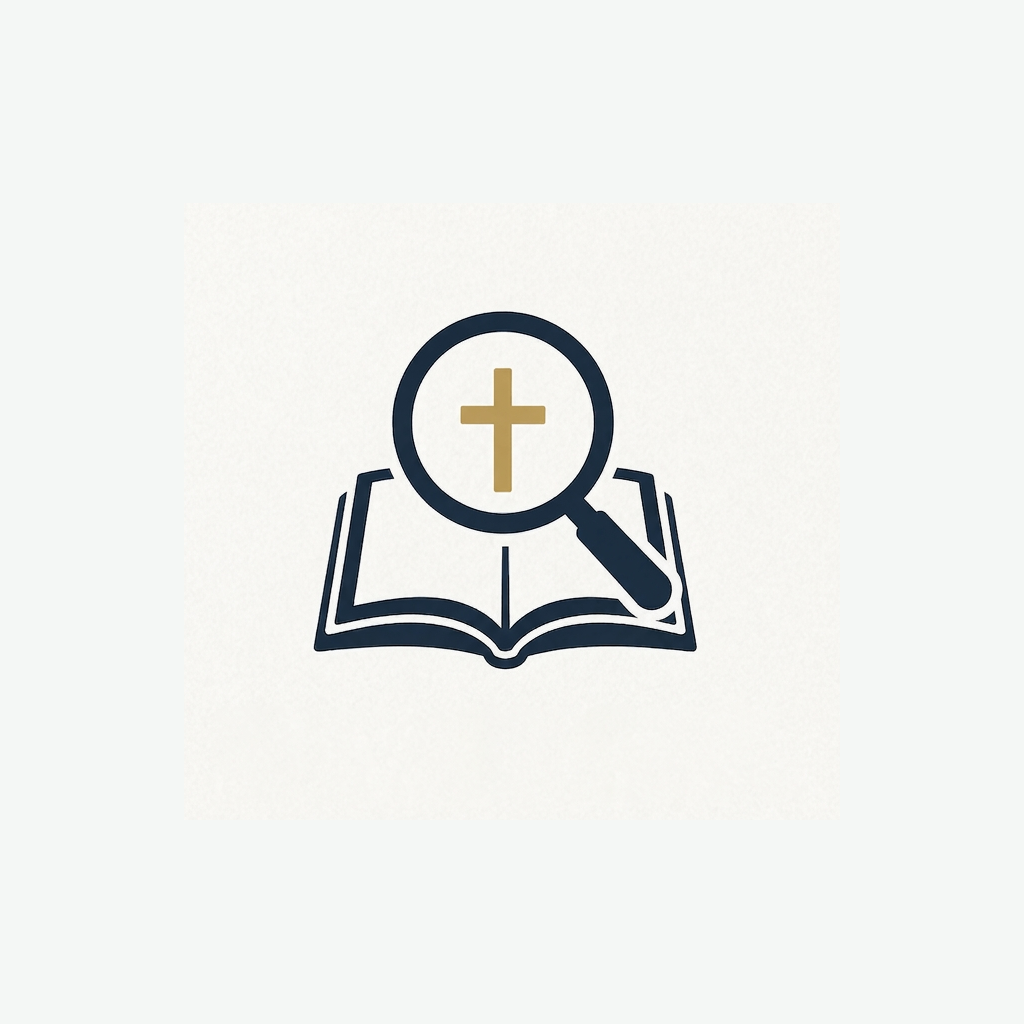
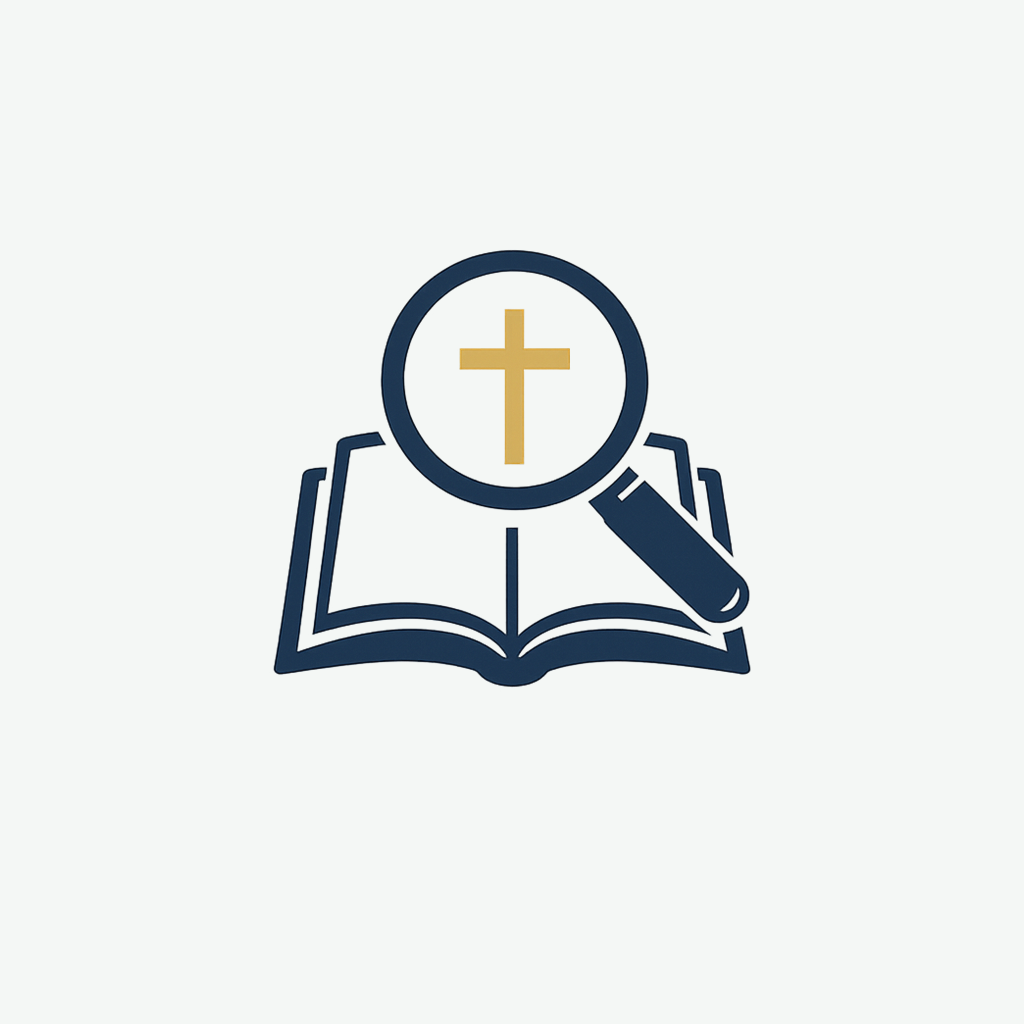
refresh Berea branding assets and documentation

Changed region(s): [[0.25, 0.2188, 0.75, 0.6875]]

diff --git a/mobile/App.tsx b/mobile/App.tsx
@@ -11,7 +11,7 @@ import {
   Text,
   View,
 } from "react-native";
-import logo from "./assets/logo1.png";
+import logo from "./assets/logo.png";
 import eventos from "./src/data/genesis/eventos.json";
 import lugares from "./src/data/genesis/lugares.json";
 import memoria from "./src/data/genesis/memoria.json";
@@ -196,12 +196,13 @@ export default function App() {
   function HomeScreen() {
     return (
       <View style={styles.hero}>
-        <View style={styles.logoFrame}>
+        <View style={styles.logoStage}>
+          <View style={styles.logoHalo} />
           <Image source={logo} style={styles.heroLogo} resizeMode="contain" />
         </View>
         <Text style={styles.heroBrand}>Berea</Text>
         <Text style={styles.heroTitle}>Quiz bíblico</Text>
-        <Text style={styles.heroText}>Escudriña las Escrituras, una pregunta a la vez.</Text>
+        <Text style={styles.heroText}>Escudriñando las Escrituras cada día.</Text>
         <Pressable onPress={() => setScreen("setup")} style={styles.primaryButton}>
           <Text style={styles.primaryButtonText}>Comenzar</Text>
         </Pressable>
@@ -502,23 +503,22 @@ function createStyles(theme: typeof lightTheme) {
       gap: 12,
       paddingVertical: 28,
     },
-    logoFrame: {
+    logoStage: {
       alignItems: "center",
-      backgroundColor: "#f8f6ef",
-      borderColor: "rgba(194, 154, 73, 0.28)",
-      borderRadius: 8,
-      borderWidth: 1,
+      height: 240,
       justifyContent: "center",
-      paddingHorizontal: 10,
-      paddingVertical: 8,
-      shadowColor: "#000000",
-      shadowOffset: { height: 4, width: 0 },
-      shadowOpacity: 0.16,
-      shadowRadius: 12,
+      width: "100%",
+    },
+    logoHalo: {
+      backgroundColor: theme.bg === "#101512" ? "rgba(237, 243, 239, 0.1)" : "rgba(35, 108, 82, 0.05)",
+      borderRadius: 125,
+      height: 250,
+      position: "absolute",
+      width: 250,
     },
     heroLogo: {
-      height: 150,
-      width: 200,
+      height: 240,
+      width: 300,
     },
     heroBrand: {
       color: theme.accent,

diff --git a/README.md b/README.md
@@ -2,13 +2,13 @@
 
 Berea is an offline-first Bible quiz application focused on careful Scripture study. The project currently includes a large Spanish question bank for Genesis, with support for filtering by difficulty and category, local progress tracking, explanations after each answer, and a mobile app experience built with Expo.
 
-The codebase is organized as a monorepo so the backend, web prototype, and mobile application can evolve together.
+The codebase is organized as a monorepo so the backend, mobile application, and upcoming web version can evolve together.
 
 ## Project Structure
 
 ```text
 backend/   Python API prototype and canonical question tooling
-frontend/  Next.js web prototype
+frontend/  Next.js web version prototype
 mobile/    Expo React Native mobile app
 ```
 
@@ -22,6 +22,7 @@ mobile/    Expo React Native mobile app
 - Light and dark themes.
 - Offline-ready mobile question data bundled inside the app.
 - EAS Build configuration for Android APK and production app bundle builds.
+- Planned web version built from the same product direction.
 
 ## Mobile App
 
@@ -83,7 +84,9 @@ eas build -p android --profile preview --clear-cache
 
 After the build finishes, open the EAS build URL and download the APK artifact.
 
-## Web Prototype
+## Web Version
+
+A full web version is planned. The current Next.js app is a prototype that will continue evolving alongside the mobile experience.
 
 ```powershell
 cd frontend